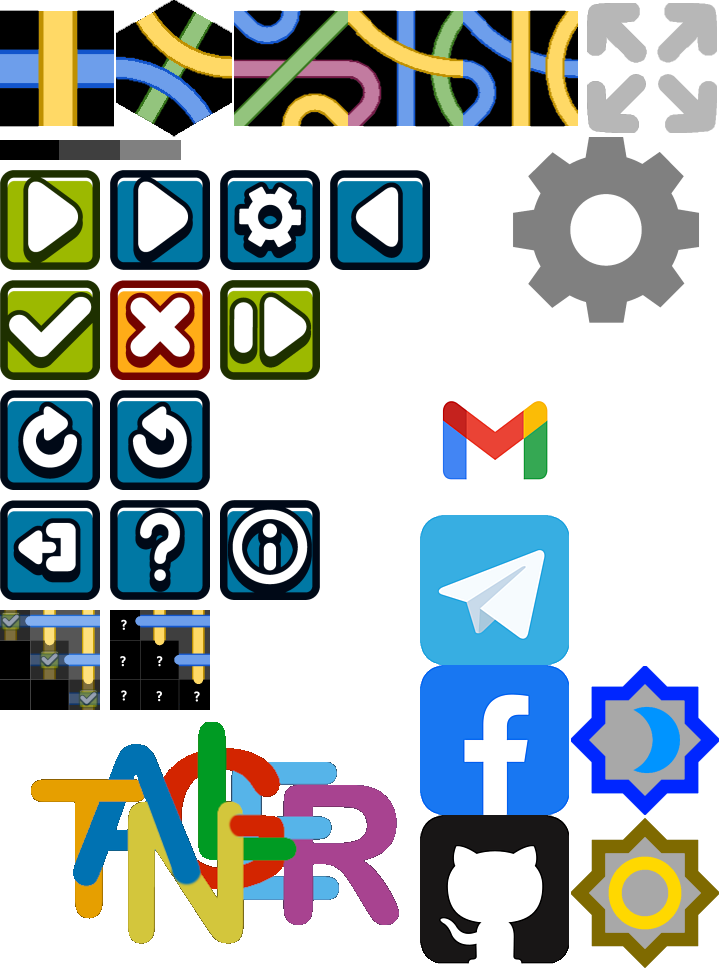
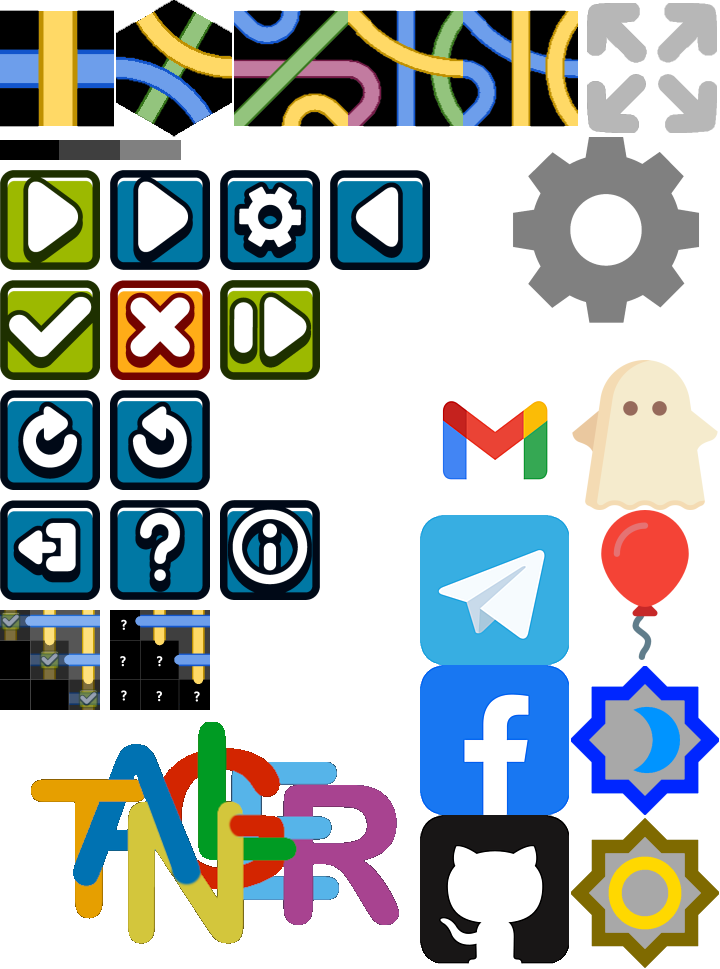
End-of-game animation added

Changed region(s): [[0.7944, 0.3715, 1.0, 0.6811]]

diff --git a/core/src/main/kotlin/com/andrzejn/tangler/screens/BaseGameboard.kt b/core/src/main/kotlin/com/andrzejn/tangler/screens/BaseGameboard.kt
@@ -13,6 +13,7 @@ import com.andrzejn.tangler.logic.PlayField
 import com.andrzejn.tangler.logic.Tile
 import com.andrzejn.tangler.tiles.BaseTile
 import com.badlogic.gdx.Gdx
+import com.badlogic.gdx.Gdx.graphics
 import com.badlogic.gdx.Gdx.input
 import com.badlogic.gdx.Input
 import com.badlogic.gdx.graphics.g2d.PolygonSpriteBatch
@@ -20,6 +21,7 @@ import com.badlogic.gdx.graphics.g2d.Sprite
 import com.badlogic.gdx.math.Vector2
 import kotlin.math.abs
 import kotlin.math.min
+import kotlin.random.Random
 
 /**
  * Grid lines width. Used in some other places to draw lines.
@@ -41,6 +43,8 @@ abstract class BaseGameboard(
      */
     val ctx: Context
 ) {
+    private var drawGhost: Boolean = false
+
     /**
      * The non-UI game logic
      */
@@ -122,6 +126,14 @@ abstract class BaseGameboard(
     // Those sprites are overlayed over the shadow sprite to inducate possible moves quality
     private val ok = Sprite(ctx.a.accept).apply { setAlpha(0.5f) }
     private val bad = Sprite(ctx.a.cancel).apply { setAlpha(0.5f) }
+    private val ghost = Sprite(ctx.a.ghost).apply {
+        setAlpha(0.85f)
+        setPosition(-1000f, -1000f)
+    }
+    private val balloon = Sprite(ctx.a.balloon).apply {
+        setAlpha(0.85f)
+        setPosition(-1000f, -1000f)
+    }
 
     /**
      * The list of closed path loops, if any, to fade out and clean up
@@ -337,11 +349,33 @@ abstract class BaseGameboard(
         if (suggestedMove == null)
             suggestedMove = playField.suggestBestMove(nextTile.t)
         noMoreMoves = suggestedMove == null
-        if (noMoreMoves && flatTile().isEmpty()) {
-            putFirstTile()
-            return lookForGoodMove()
+        if (noMoreMoves) {
+            if (flatTile().isEmpty()) {
+                ghostAnimation(true)
+                putFirstTile()
+                return lookForGoodMove()
+            } else ghostAnimation(false)
         }
         return suggestedMove
+    }
+
+    /**
+     * Perform ghost/balloon animatio when where are no more moves left
+     */
+    private fun ghostAnimation(forceBalloon: Boolean) {
+        drawGhost = true
+        val sprite = (if (Random.nextFloat() < 0.5f) ghost else balloon).apply {
+            setSize(ctrl.tileWidth * 2f, ctrl.tileWidth * 2f)
+            setOriginCenter()
+            setPosition((graphics.width - width) / 2f, 0f)
+        }
+        Tween.to(sprite, TW_POS_XY, if (forceBalloon) 1.5f else 3f)
+            .target((graphics.width - sprite.width) / 2f, graphics.height.toFloat())
+            .setCallback { _, _ ->
+                drawGhost = false
+                sprite.setPosition(-1000f, -1000f)
+            }
+            .start(ctx.tweenManager)
     }
 
     /**
@@ -504,6 +538,14 @@ abstract class BaseGameboard(
         ctx.score.draw(ctx.batch)
         if (ctx.fader.inFade)
             invalidateSprites()
+    }
+
+    protected fun drawGhostOrBalloon() {
+        if (drawGhost) {
+            ghost.draw(ctx.batch)
+            balloon.draw(ctx.batch)
+        }
+
     }
 
     /**

diff --git a/core/src/main/kotlin/com/andrzejn/tangler/helper/Atlas.kt b/core/src/main/kotlin/com/andrzejn/tangler/helper/Atlas.kt
@@ -80,4 +80,6 @@ class Atlas {
     val lighttheme: TextureRegion get() = texture("lighttheme")
     val hintson: TextureRegion get() = texture("hintson")
     val hintsoff: TextureRegion get() = texture("hintsoff")
+    val ghost: TextureRegion get() = texture("ghost")
+    val balloon: TextureRegion get() = texture("balloon")
 }

diff --git a/core/src/main/kotlin/com/andrzejn/tangler/screens/HexGameboard.kt b/core/src/main/kotlin/com/andrzejn/tangler/screens/HexGameboard.kt
@@ -111,6 +111,7 @@ class HexGameboard(ctx: Context) : BaseGameboard(ctx) {
         }
         renderTiles()
         renderBorderMarkers()
+        drawGhostOrBalloon()
         if (ctx.fader.inFade) ctx.score.drawFloatUpPoints(ctx.batch)
     }
 

diff --git a/core/src/main/kotlin/com/andrzejn/tangler/screens/SquareGameboard.kt b/core/src/main/kotlin/com/andrzejn/tangler/screens/SquareGameboard.kt
@@ -72,6 +72,7 @@ class SquareGameboard(ctx: Context) :
         }
         renderTiles()
         renderBorderMarkers()
+        drawGhostOrBalloon()
         if (ctx.fader.inFade)
             ctx.score.drawFloatUpPoints(ctx.batch)
     }

diff --git a/ToDo.md b/ToDo.md
@@ -2,5 +2,5 @@
 
 - [x] When there are no tiles left after the move (everything has been cleared), auto-place one tile, as on new game
 - [ ] Add smooth scrolling to the field
-- [ ] Add option to do not show shadow sprites on possible moves
-- [ ] Add end-of-game animation
+- [x] Add option to do not show shadow sprites on possible moves
+- [x] Add end-of-game animation
